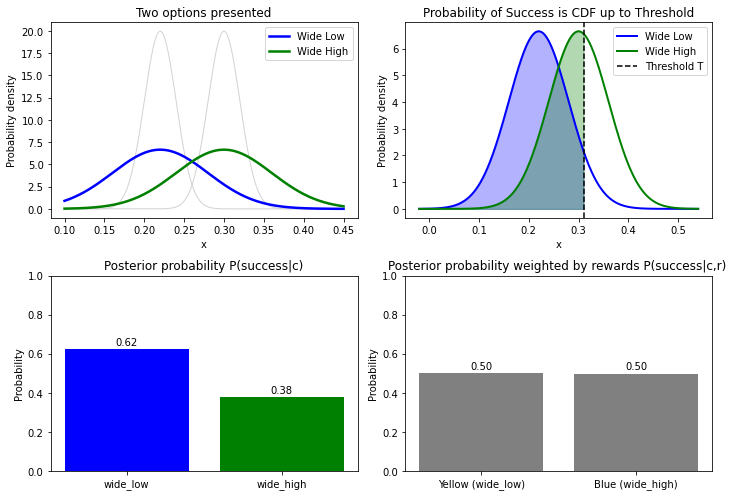
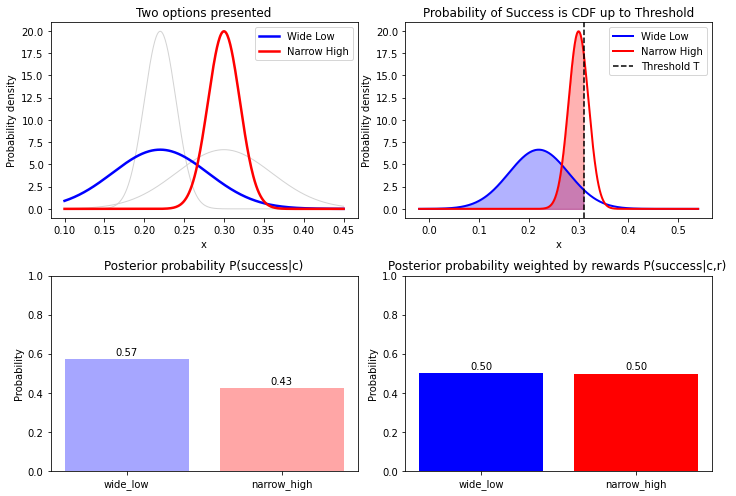
updated image in readme

diff --git a/utils.py b/utils.py
@@ -103,7 +103,7 @@ def plot_success_bernoulli(
     probs = {cid: p / total for cid, p in p_succ.items()}
 
     ax.bar(probs.keys(), probs.values(),
-       color=[COLOR_MAP[c] for c in probs])
+       color=[COLOR_MAP[c] for c in probs], alpha=0.35)
 
     ax.set_ylim(0, 1)
     ax.set(ylabel="Probability", title="Posterior probability P(success|c)")
@@ -131,7 +131,7 @@ def plot_reward_bernoulli(
     probs = {cid: v / total for cid, v in exp_r.items()}
 
     ax.bar(probs.keys(), probs.values(),
-       color=[COLOR_MAP.get(c.split()[1], "grey") for c in probs])
+       color=[COLOR_MAP.get(c, "grey") for c in probs])
     ax.set_ylim(0, 1)
     ax.set(
         ylabel="Probability",

diff --git a/decision-maker.py b/decision-maker.py
@@ -146,7 +146,7 @@ if __name__ == "__main__":
 
     
     threshold = 0.31
-    first_pair = ("wide_low", "wide_high")
+    first_pair = ("wide_low", "narrow_high")
 
     # ------------------------------------------------------------------
     #  Agents
@@ -176,8 +176,8 @@ if __name__ == "__main__":
     )
     plot_reward_bernoulli(
         {
-            "Yellow (wide_low)":  (0.22, 0.06, 11),
-            "Blue (wide_high)":   (0.30, 0.06, 18),
+            "wide_low":  (0.22, 0.06, 11),
+            "narrow_high":   (0.30, 0.06, 18),
         },
         threshold,
         ax=axs[1, 1],
